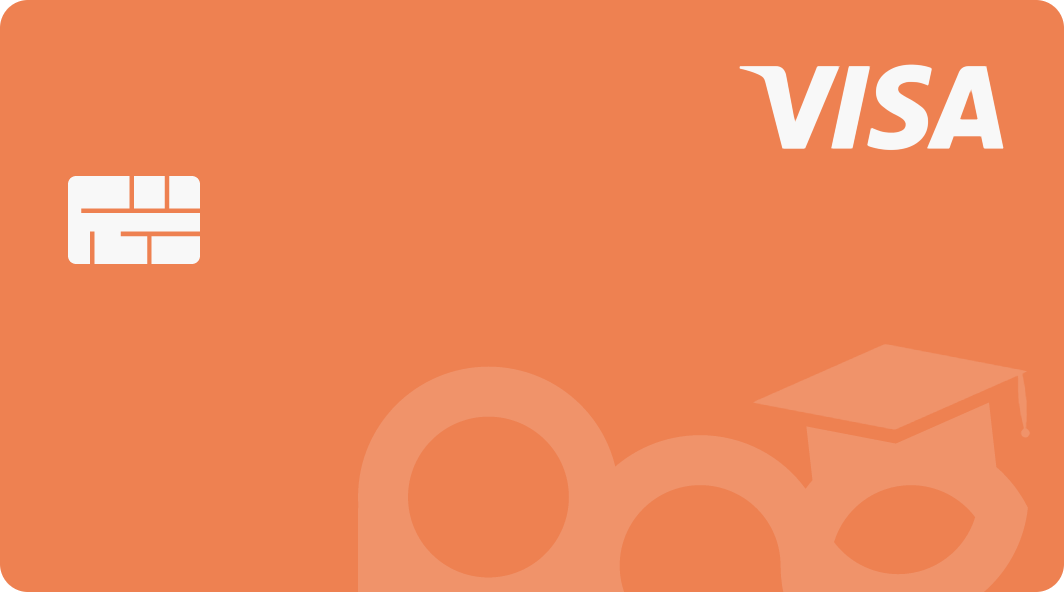
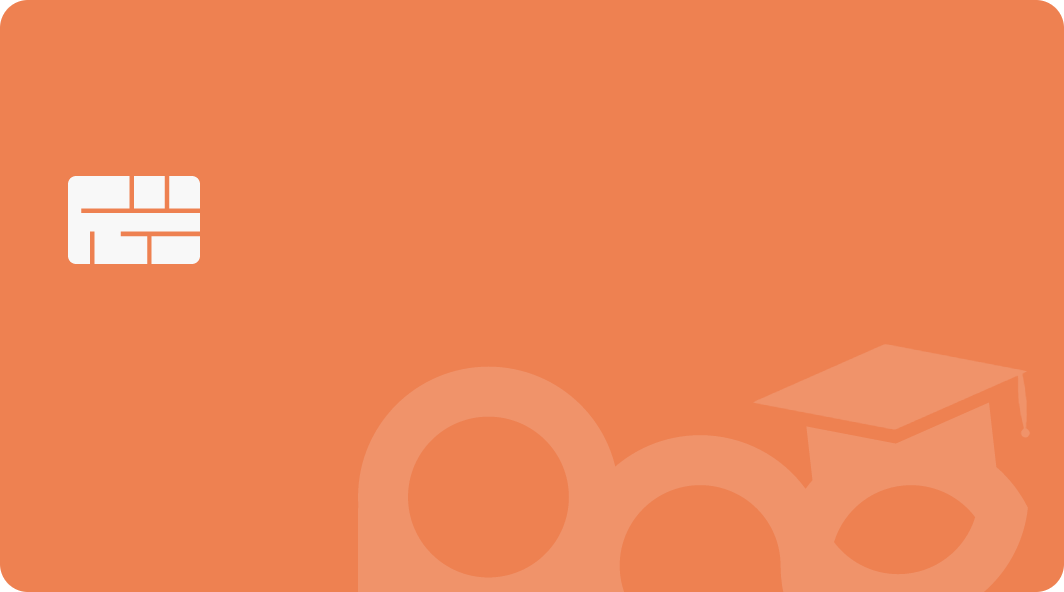
Adicionado novos tipos de cartões compativeis

Changed region(s): [[0.6823, 0.0912, 0.9615, 0.2736]]

diff --git a/lib/app/helpers/paths.dart b/lib/app/helpers/paths.dart
@@ -3,49 +3,58 @@ class Paths{
   static final String svgsPath = "lib/app/assets/svgs/";
   static final String jsonPath = "lib/app/assets/json/";
 
+  static final String logo_pce = "${imagesPath}logo_pce.png";
   static final String background = "${imagesPath}background.png";
-  static final String Banner_Promocional = "${imagesPath}banner_promocional.png";
-  static final String Icone_Academico = "${imagesPath}icone_academico.png";
-  static final String Icone_Financeiro = "${imagesPath}icone_financeiro.png";
   static final String Icone_Home = "${imagesPath}icone_home.png";
+  static final String elo_flag = "${imagesPath}elo_flag_card.png";
+  static final String visa_flag = "${imagesPath}visa_flag_card.png";
   static final String Icone_Perfil = "${imagesPath}icone_perfil.png";
+  static final String hiper_flag = "${imagesPath}hiper_flag_card.png";
   static final String Ilustracao_01 = "${imagesPath}ilustracao_01.png";
   static final String Ilustracao_02 = "${imagesPath}ilustracao_02.png";
   static final String Ilustracao_03 = "${imagesPath}ilustracao_03.png";
-  static final String Ilustracao_Finalizacao = "${imagesPath}ilustracao_finalizacao.png";
-  static final String Ilustracao_Rodape = "${imagesPath}ilustracao_rodape.png";
-  static final String logo_pce = "${imagesPath}logo_pce.png";
-  static final String Cartao_Roxo_PCE = "${imagesPath}cartao_roxo_pce.png";
-  static final String Cartao_Laranja_PCE = "${imagesPath}cartao_laranja_pce.png";
+  static final String Debit_Card = "${imagesPath}cartao_roxo_pce.png";
   static final String Carteirinha_PCE = "${imagesPath}carteirinha_pce.png";
+  static final String Icone_Academico = "${imagesPath}icone_academico.png";
+  static final String Credit_Card = "${imagesPath}cartao_laranja_pce.png";
+  static final String Icone_Financeiro = "${imagesPath}icone_financeiro.png";
+  static final String hipercard_flag = "${imagesPath}hipercard_flag_card.png";
+  static final String Ilustracao_Rodape = "${imagesPath}ilustracao_rodape.png";
+  static final String mastercard_flag = "${imagesPath}mastercard_flag_card.png";
+  static final String Banner_Promocional = "${imagesPath}banner_promocional.png";
+  static final String Debit_Card_Back = "${imagesPath}cartao_roxo_verso_pce.png";
+  static final String Cartao_Nao_Cadastrado = "${imagesPath}Cartao_Sem_Cadastro.png";
+  static final String Credit_Card_Back = "${imagesPath}cartao_laranja_verso_pce.png";
+  static final String Ilustracao_Finalizacao = "${imagesPath}ilustracao_finalizacao.png";
+  static final String american_express_flag = "${imagesPath}american_express_flag_card.png";
 
-  static final String Background = "${svgsPath}background.svg";
-  static final String Icone_Editar = "${svgsPath}icone_editar.svg";
-  static final String Icone_Calendario_Academico = "${svgsPath}icone_calendario_academico.svg";
-  static final String Icone_Carterinha_Estudante = "${svgsPath}icone_carterinha_estudante.svg";
-  static final String Icone_Carterinho_Online = "${svgsPath}icone_carterinho_online.svg";
-  static final String Icone_Copiar = "${svgsPath}icone_copiar.svg";
-  static final String Icone_Declaracao_Escolar = "${svgsPath}icone_declaracao_escolar.svg";
-  static final String Icone_Filtro = "${svgsPath}icone_filtro.svg";
-  static final String Icone_Finalizacao = "${svgsPath}icone_finalizacao.svg";
-  static final String Icone_Historico_Academico = "${svgsPath}icone_historico_academico.svg";
-  static final String Icone_Horario_Das_Aulas = "${svgsPath}icone_horario_aulas.svg";
-  static final String Icone_Notas_e_Faltas = "${svgsPath}icone_notas_faltas.svg";
-  static final String Icone_Noticias_e_Eventos = "${svgsPath}icone_noticias_eventos.svg";
-  static final String Icone_Notificacao = "${svgsPath}icone_notificacao.svg";
-  static final String Icone_Noticias_Eventos = "${svgsPath}Icone_Noticias.svg";
+  static final String Logo_Pce = "${svgsPath}logo_pce.svg";
   static final String Icone_Pdf = "${svgsPath}Icone_PDF.svg";
+  static final String Background = "${svgsPath}background.svg";
+  static final String Icone_Sair = "${svgsPath}icone_sair.svg";
+  static final String Logo_Login = "${svgsPath}logo_login.svg";
   static final String Icon_Upload = "${svgsPath}Icon_Upload.svg";
+  static final String Icone_Copiar = "${svgsPath}icone_copiar.svg";
+  static final String Icone_Editar = "${svgsPath}icone_editar.svg";
+  static final String Icone_Filtro = "${svgsPath}icone_filtro.svg";
+  static final String Logo_Pce_Home = "${svgsPath}logo_pce_home.svg";
   static final String Ilustracao_Home = "${svgsPath}ilustracao_home.svg";
   static final String Ilustracao_Topo = "${svgsPath}ilustracao_topo.svg";
   static final String Logo_Finalizacao = "${svgsPath}logo_finalizacao.svg";
-  static final String Logo_Login = "${svgsPath}logo_login.svg";
-  static final String Logo_Pce = "${svgsPath}logo_pce.svg";
-  static final String Logo_Pce_Home = "${svgsPath}logo_pce_home.svg";
+  static final String Icone_Finalizacao = "${svgsPath}icone_finalizacao.svg";
+  static final String Icone_Notificacao = "${svgsPath}icone_notificacao.svg";
+  static final String Icone_Noticias_Eventos = "${svgsPath}Icone_Noticias.svg";
+  static final String Icone_Notas_e_Faltas = "${svgsPath}icone_notas_faltas.svg";
+  static final String Icone_Horario_Das_Aulas = "${svgsPath}icone_horario_aulas.svg";
   static final String Icone_Redefinir_Senha = "${svgsPath}icone_redefinir_senha.svg";
-  static final String Icone_Sair = "${svgsPath}icone_sair.svg";
+  static final String Icone_Carterinho_Online = "${svgsPath}icone_carterinho_online.svg";
+  static final String Icone_Noticias_e_Eventos = "${svgsPath}icone_noticias_eventos.svg";
+  static final String Icone_Declaracao_Escolar = "${svgsPath}icone_declaracao_escolar.svg";
+  static final String Icone_Historico_Academico = "${svgsPath}icone_historico_academico.svg";
+  static final String Icone_Calendario_Academico = "${svgsPath}icone_calendario_academico.svg";
+  static final String Icone_Carterinha_Estudante = "${svgsPath}icone_carterinha_estudante.svg";
 
-  static final String Success_Animation = "${jsonPath}success_animation.json";
   static final String Loading = "${jsonPath}loading.json";
   static final String Loading2 = "${jsonPath}loading2.json";
+  static final String Success_Animation = "${jsonPath}success_animation.json";
 }

diff --git a/lib/app/views/pages/tabletPhonePages/shared/widgets/payment_card_select_widget.dart b/lib/app/views/pages/tabletPhonePages/shared/widgets/payment_card_select_widget.dart
@@ -3,6 +3,7 @@ import 'package:flutter/material.dart';
 import 'package:im_stepper/stepper.dart';
 import 'package:projeto_tcc/app/views/pages/widgetsShared/text_widget.dart';
 import 'package:responsive_sizer/responsive_sizer.dart';
+import '../../../../../enums/enums.dart';
 import '../../../../stylePages/app_colors.dart';
 import '../../../widgetsShared/button_widget.dart';
 import 'credit_debt_card_widget.dart';
@@ -12,10 +13,11 @@ class PaymentCardSelectWidget extends StatefulWidget {
   late bool showTitleCard;
   late bool showRemoveBottom;
   late bool showEditBottom;
+  final flagCards? flagCard;
   late final String titleCards;
   late final Function() onClicked;
   late final Function()? onRemoveClicked;
-  late final double creditDebtCardWidgetHeight;
+  late final double? creditDebtCardWidgetHeight;
   late final List<CreditDebtCardWidget> creditDebtCardList;
   late final CarouselController carouselCreditDebtCardController;
 
@@ -24,13 +26,14 @@ class PaymentCardSelectWidget extends StatefulWidget {
         required this.titleCards,
         required this.onClicked,
         required this.showTitleCard,
-        required this.creditDebtCardWidgetHeight,
         required this.creditDebtCardActiveStep,
         required this.creditDebtCardList,
         required this.carouselCreditDebtCardController,
         this.showRemoveBottom = false,
         this.showEditBottom = false,
+        this.creditDebtCardWidgetHeight,
         this.onRemoveClicked,
+        this.flagCard,
       }) : super(key: key);
 
   @override
@@ -47,20 +50,20 @@ class _PaymentCardSelectWidgetState extends State<PaymentCardSelectWidget> {
         Padding(
           padding: EdgeInsets.only(bottom: 1.h),
           child: SizedBox(
-            height: widget.creditDebtCardWidgetHeight,
+            height: widget.creditDebtCardWidgetHeight ?? 20.h,
             child: CarouselSlider.builder(
               carouselController: widget.carouselCreditDebtCardController,
               itemCount: widget.creditDebtCardList.length,
               options: CarouselOptions(
-                  viewportFraction: .85,
-                  enlargeStrategy: CenterPageEnlargeStrategy.height,
-                  enlargeCenterPage: true,
-                  enableInfiniteScroll: false,
-                  onPageChanged: (itemIndex, reason){
-                    setState(() {
-                      widget.creditDebtCardActiveStep = itemIndex;
-                    });
-                  }
+                viewportFraction: .85,
+                enlargeStrategy: CenterPageEnlargeStrategy.height,
+                enlargeCenterPage: true,
+                enableInfiniteScroll: false,
+                onPageChanged: (itemIndex, reason){
+                  setState(() {
+                    widget.creditDebtCardActiveStep = itemIndex;
+                  });
+                }
               ),
               itemBuilder: (BuildContext context, int itemIndex, int pageViewIndex) {
                 return widget.creditDebtCardList[itemIndex];

diff --git a/lib/app/views/pages/tabletPhonePages/shared/widgets/credit_debt_card_widget.dart b/lib/app/views/pages/tabletPhonePages/shared/widgets/credit_debt_card_widget.dart
@@ -2,6 +2,7 @@ import 'package:flutter/material.dart';
 import 'package:projeto_tcc/app/enums/enums.dart';
 import 'package:projeto_tcc/app/views/pages/widgetsShared/text_widget.dart';
 import 'package:responsive_sizer/responsive_sizer.dart';
+import '../../../../../helpers/flag_card_type.dart';
 import '../../../../../helpers/paths.dart';
 import '../../../../stylePages/app_colors.dart';
 
@@ -9,9 +10,10 @@ class CreditDebtCardWidget extends StatelessWidget {
   final String? numericEnd;
   final String? personCardName;
   final String? cardExpirationDate;
-  final double? height;
   final double? width;
+  final double? height;
   final double? paddingHeightName;
+  final flagCards? flagCard;
   final creditDebtCardType? creditDebtCardTypeEnum;
 
   const CreditDebtCardWidget(
@@ -19,8 +21,9 @@ class CreditDebtCardWidget extends StatelessWidget {
         this.numericEnd,
         this.personCardName,
         this.cardExpirationDate,
-        this.height,
         this.width,
+        this.height,
+        this.flagCard,
         this.paddingHeightName,
         this.creditDebtCardTypeEnum,
       }) : super(key: key);
@@ -33,10 +36,30 @@ class CreditDebtCardWidget extends StatelessWidget {
         children: [
           Center(
             child: Image.asset(
-              creditDebtCardTypeEnum == creditDebtCardType.mastercard ?
-                Paths.Cartao_Roxo_PCE : Paths.Cartao_Laranja_PCE,
+              creditDebtCardTypeEnum == creditDebtCardType.debit ?
+                Paths.Debit_Card : Paths.Credit_Card,
               height: height ?? 20.h,
               width: width ?? 40.h,
+              fit: BoxFit.fill,
+            ),
+          ),
+          Visibility(
+            visible: flagCard != null,
+            child: Center(
+              child: Container(
+                height: height ?? 20.h,
+                width: width ?? 40.h,
+                margin: EdgeInsets.only(top: 2.h, right: 5.w),
+                child: Align(
+                  alignment: Alignment.topRight,
+                  child: Image.asset(
+                    FlagCardType.getFlagCard(flagCard),
+                    width: (height ?? 20.h) / 3.5,
+                    fit: BoxFit.contain,
+                    alignment: Alignment.topRight,
+                  ),
+                ),
+              ),
             ),
           ),
           Center(

diff --git a/lib/app/views/pages/tabletPhonePages/mainMenu/controller/main_menu_tablet_phone_controller.dart b/lib/app/views/pages/tabletPhonePages/mainMenu/controller/main_menu_tablet_phone_controller.dart
@@ -33,7 +33,6 @@ class MainMenuTabletPhoneController extends GetxController {
   late int activeStep;
   late int creditDebtCardActiveStep;
   late String nameInitials;
-  late double creditDebtCardWidgetHeight;
   late RxBool hasPicture;
   late RxBool deliveryTabSelected;
   late RxString courseName;
@@ -68,7 +67,6 @@ class MainMenuTabletPhoneController extends GetxController {
   _initializeVariables(){
     deliveryTabSelected = false.obs;
     activeStep = 0;
-    creditDebtCardWidgetHeight = 20.h;
     creditDebtCardActiveStep = 0;
     carouselController = CarouselController();
     carouselCreditDebtCardController = CarouselController();
@@ -1339,15 +1337,15 @@ class MainMenuTabletPhoneController extends GetxController {
         numericEnd: "0365",
         personCardName: "WILLIAM DOUGLAS COSTA GOMES",
         cardExpirationDate: "02/29",
-        creditDebtCardTypeEnum: creditDebtCardType.mastercard,
-        height: creditDebtCardWidgetHeight,
+        flagCard: flagCards.mastercardFlag,
+        creditDebtCardTypeEnum: creditDebtCardType.debit,
       ),
       CreditDebtCardWidget(
-        numericEnd: "5967",
+        numericEnd: "0365",
         personCardName: "WILLIAM DOUGLAS COSTA GOMES",
-        cardExpirationDate: "10/27",
-        creditDebtCardTypeEnum: creditDebtCardType.visa,
-        height: creditDebtCardWidgetHeight,
+        cardExpirationDate: "02/29",
+        flagCard: flagCards.eloFlag,
+        creditDebtCardTypeEnum: creditDebtCardType.credit,
       ),
     ];
   }

diff --git a/lib/app/views/pages/tabletPhonePages/cardPayment/controller/card_payment_controller.dart b/lib/app/views/pages/tabletPhonePages/cardPayment/controller/card_payment_controller.dart
@@ -29,17 +29,20 @@ class CardPaymentController extends GetxController {
 
   _inicializeList(){
     creditDebtCardList = [
+
       CreditDebtCardWidget(
         numericEnd: "0365",
         personCardName: "WILLIAM DOUGLAS COSTA GOMES",
         cardExpirationDate: "02/29",
-        creditDebtCardTypeEnum: creditDebtCardType.mastercard,
+        flagCard: flagCards.mastercardFlag,
+        creditDebtCardTypeEnum: creditDebtCardType.debit,
       ),
       CreditDebtCardWidget(
-        numericEnd: "5967",
+        numericEnd: "0365",
         personCardName: "WILLIAM DOUGLAS COSTA GOMES",
-        cardExpirationDate: "10/27",
-        creditDebtCardTypeEnum: creditDebtCardType.visa,
+        cardExpirationDate: "02/29",
+        flagCard: flagCards.eloFlag,
+        creditDebtCardTypeEnum: creditDebtCardType.credit,
       ),
     ];
   }

diff --git a/lib/app/views/pages/tabletPhonePages/selectCardPayment/controller/select_card_payment_controller.dart b/lib/app/views/pages/tabletPhonePages/selectCardPayment/controller/select_card_payment_controller.dart
@@ -36,13 +36,15 @@ class SelectCardPaymentController extends GetxController {
         numericEnd: "0365",
         personCardName: "WILLIAM DOUGLAS COSTA GOMES",
         cardExpirationDate: "02/29",
-        creditDebtCardTypeEnum: creditDebtCardType.mastercard,
+        flagCard: flagCards.mastercardFlag,
+        creditDebtCardTypeEnum: creditDebtCardType.debit,
       ),
       CreditDebtCardWidget(
-        numericEnd: "5967",
+        numericEnd: "0365",
         personCardName: "WILLIAM DOUGLAS COSTA GOMES",
-        cardExpirationDate: "10/27",
-        creditDebtCardTypeEnum: creditDebtCardType.visa,
+        cardExpirationDate: "02/29",
+        flagCard: flagCards.eloFlag,
+        creditDebtCardTypeEnum: creditDebtCardType.credit,
       ),
     ];
   }

diff --git a/lib/app/helpers/flag_card_type.dart b/lib/app/helpers/flag_card_type.dart
@@ -1,0 +1,24 @@
+import 'package:projeto_tcc/app/enums/enums.dart';
+import 'package:projeto_tcc/app/helpers/paths.dart';
+
+class FlagCardType {
+  static String getFlagCard(flagCards? flagCard) {
+    if(flagCard != null){
+      switch(flagCard){
+        case flagCards.eloFlag:
+          return Paths.elo_flag;
+        case flagCards.visaFlag:
+          return Paths.visa_flag;
+        case flagCards.hiperFlag:
+          return Paths.hiper_flag;
+        case flagCards.hipercardFlag:
+          return Paths.hipercard_flag;
+        case flagCards.mastercardFlag:
+          return Paths.mastercard_flag;
+        case flagCards.americanExpressFlag:
+          return Paths.american_express_flag;
+      }
+    }
+    return "";
+  }
+}

diff --git a/lib/app/views/pages/tabletPhonePages/mainMenu/widgets/financial_tab_widget.dart b/lib/app/views/pages/tabletPhonePages/mainMenu/widgets/financial_tab_widget.dart
@@ -128,7 +128,7 @@ class _FinancialTabWidgetState extends State<FinancialTabWidget> with SingleTick
                         PaymentCardSelectWidget(
                           titleCards: "Cartão Cadastrado William Douglas",
                           showTitleCard: true,
-                          creditDebtCardWidgetHeight: widget.controller.creditDebtCardWidgetHeight,
+                          creditDebtCardWidgetHeight: 25.h,
                           creditDebtCardActiveStep: widget.controller.creditDebtCardActiveStep,
                           creditDebtCardList: widget.controller.creditDebtCardList,
                           carouselCreditDebtCardController: widget.controller.carouselCreditDebtCardController,

diff --git a/lib/app/views/pages/tabletPhonePages/studentRequest/controller/student_request_controller.dart b/lib/app/views/pages/tabletPhonePages/studentRequest/controller/student_request_controller.dart
@@ -71,13 +71,13 @@ class StudentRequestController extends GetxController {
         numericEnd: "0365",
         personCardName: "WILLIAM DOUGLAS COSTA GOMES",
         cardExpirationDate: "02/29",
-        creditDebtCardTypeEnum: creditDebtCardType.mastercard,
+        creditDebtCardTypeEnum: creditDebtCardType.debit,
       ),
       CreditDebtCardWidget(
         numericEnd: "5967",
         personCardName: "WILLIAM DOUGLAS COSTA GOMES",
         cardExpirationDate: "10/27",
-        creditDebtCardTypeEnum: creditDebtCardType.visa,
+        creditDebtCardTypeEnum: creditDebtCardType.credit,
       ),
     ];
   }

diff --git a/lib/app/enums/enums.dart b/lib/app/enums/enums.dart
@@ -20,8 +20,8 @@ enum academicTabs {
 }
 
 enum creditDebtCardType {
-  mastercard,
-  visa
+  debit,
+  credit,
 }
 
 enum studentTypeRequest {
@@ -32,4 +32,13 @@ enum studentTypeRequest {
 enum paymentMethod {
   creditCard,
   bankSlip
+}
+
+enum flagCards {
+  eloFlag,
+  visaFlag,
+  hiperFlag,
+  hipercardFlag,
+  mastercardFlag,
+  americanExpressFlag,
 }
